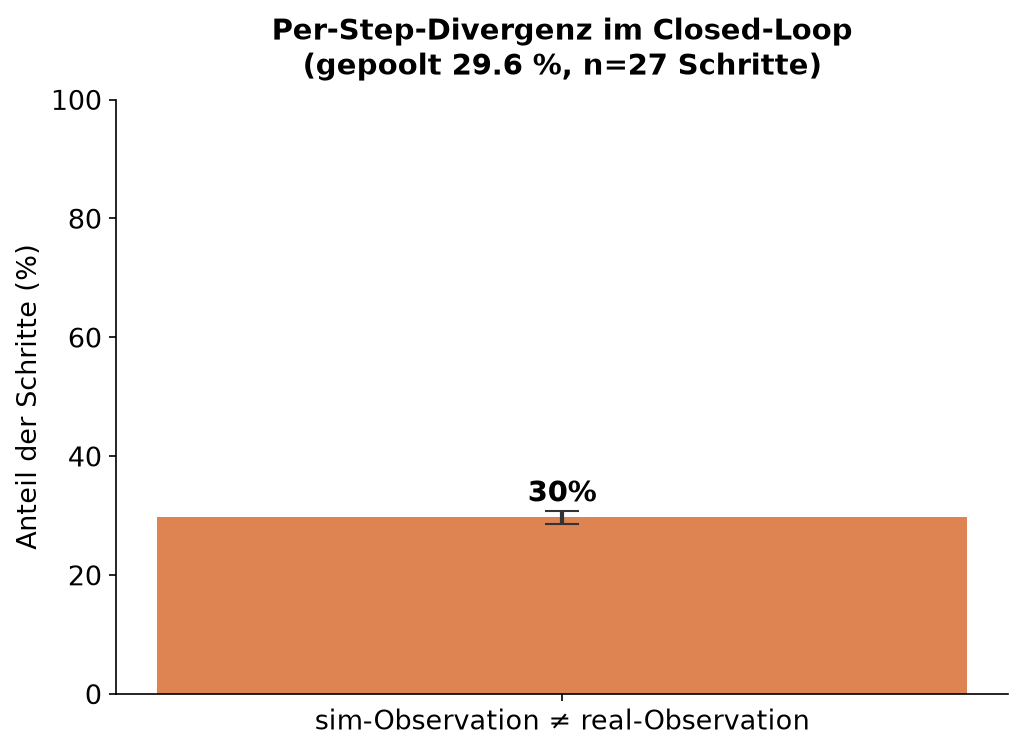
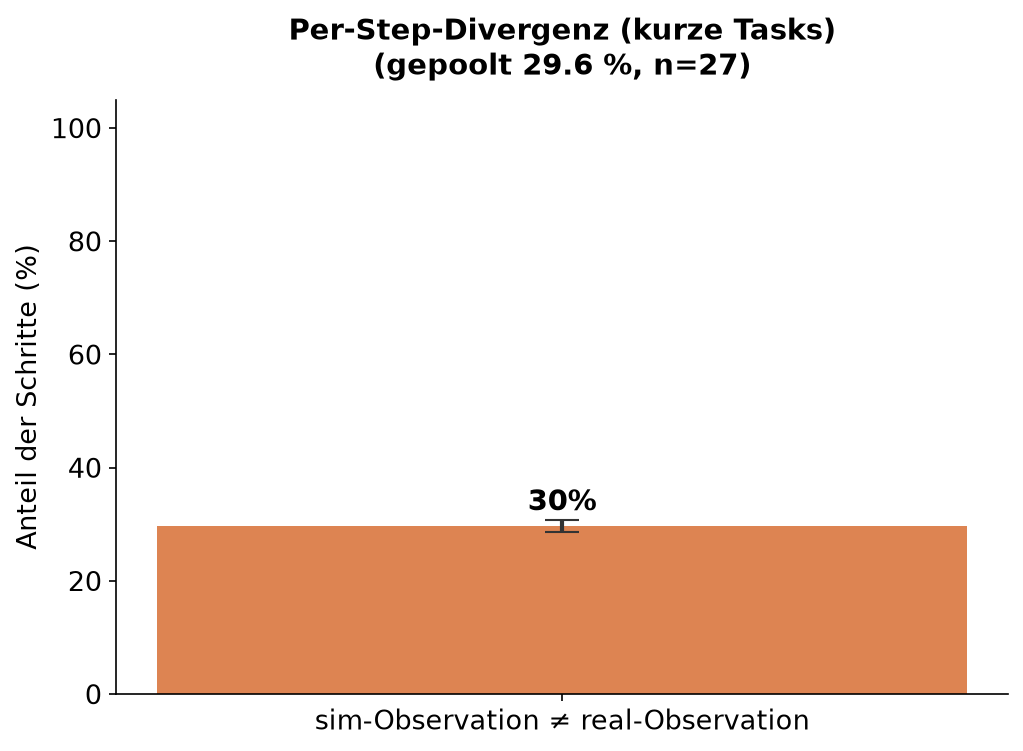
Track 3b: Langhorizont-Brutal-Test — Closed-Loop kollabiert bei Inhalts-Zwang
Headline-Kontrast (beides 2 Reps, oracle-basiert, A@real=100%):
  kurz (agnostisch):  A@sim 100%, Getaeuscht 0%,  Divergenz 30%/Schritt
  lang (Inhalt erzw): A@sim 25%,  Getaeuscht 25%, Divergenz 87%/Schritt

-> Per-Step-Fidelity (Track 2: 84-98%) ist KEIN Praediktor fuer Closed-Loop-
Tauglichkeit. Sobald der Agent B's halluzinierten Inhalt lesen + literal nutzen muss,
bricht es ein. Belege (rueckverfolgbar): conditional_dispatch (B erfindet Hostname
'agentworld-12' -> Taeuschung), multi_hop_chain (B haelt Kette 6 Hops, fabriziert
aber die Nutzlast -> Agent findet 'vortex' nie). Confound dokumentiert: B 32k-Kontext
-> 3x Truncation in langen Rollouts.

Charts: track3_compare (Headline kurz vs lang), track3_lh_success/divergence.
FINDINGS_TRACK3.md: TL;DR + Track-3b-Sektion + Gesamtfazit finalisiert.

diff --git a/scripts/make_charts_track3.py b/scripts/make_charts_track3.py
@@ -1,7 +1,10 @@
-"""LinkedIn-taugliche Track-3-Charts aus docs/data/track3_summary.json -> docs/charts/.
+"""LinkedIn-taugliche Track-3-Charts aus den beiden Summaries -> docs/charts/.
 
-  track3_success.png : A@real vs A@sim (Real-Replay) Erfolgsrate + Getaeuscht-Rate.
-  track3_divergence.png : Divergenz/Schritt (Per-Step-Fidelity-Bruch im Closed-Loop).
+  track3_success.png         : Kurzhorizont (closedloop) real vs sim + Getaeuscht.
+  track3_divergence.png      : Kurzhorizont Divergenz/Schritt.
+  track3_lh_success.png      : Langhorizont (brutal) real vs sim + Getaeuscht.
+  track3_compare.png         : HEADLINE — kurz vs lang fuer sim-Erfolg / Getaeuscht /
+                               Divergenz. Die ganze Geschichte in einem Bild.
 
 Aufruf:  python scripts/make_charts_track3.py
 """
@@ -15,65 +18,114 @@ matplotlib.use("Agg")
 import matplotlib.pyplot as plt  # noqa: E402
 
 HERE = os.path.dirname(os.path.dirname(os.path.abspath(__file__)))
-SUMMARY = os.path.join(HERE, "docs", "data", "track3_summary.json")
+DATA = os.path.join(HERE, "docs", "data")
 OUTDIR = os.path.join(HERE, "docs", "charts")
 os.makedirs(OUTDIR, exist_ok=True)
 
-with open(SUMMARY, encoding="utf-8") as f:
-    S = json.load(f)
-
-C_REAL = "#4C72B0"   # echte Umgebung - blau
-C_SIM = "#DD8452"    # simulierte Umgebung (AgentWorld) - orange
+C_REAL = "#4C72B0"   # echte Umgebung / kurz - blau
+C_SIM = "#DD8452"    # simulierte Umgebung / lang - orange
 C_WARN = "#B5462F"
 plt.rcParams.update({"font.size": 13})
 
 
-def err(d):
+def load(name):
+    with open(os.path.join(DATA, name), encoding="utf-8") as f:
+        return json.load(f)
+
+
+def err1(d):
     if not d:
         return [[0], [0]]
     return [[max(0, d["mean"] - d["min"])], [max(0, d["max"] - d["mean"])]]
 
 
-# ---- Chart 1: Erfolgsrate real vs sim + Getaeuscht ----
-real = S["real_success_pct"] or {"mean": 0, "min": 0, "max": 0}
-sim = S["sim_replay_success_pct"] or {"mean": 0, "min": 0, "max": 0}
-dec = S["sim_deceived_pct"] or {"mean": 0, "min": 0, "max": 0}
+def three_bar(S, title, fname):
+    real = S["real_success_pct"] or {"mean": 0, "min": 0, "max": 0}
+    sim = S["sim_replay_success_pct"] or {"mean": 0, "min": 0, "max": 0}
+    dec = S["sim_deceived_pct"] or {"mean": 0, "min": 0, "max": 0}
+    fig, ax = plt.subplots(figsize=(8.5, 5.4))
+    x = [0, 1, 2]
+    vals = [real["mean"], sim["mean"], dec["mean"]]
+    ax.bar(x, vals, color=[C_REAL, C_SIM, C_WARN], width=0.62)
+    ax.errorbar(x, vals,
+                yerr=[[err1(real)[0][0], err1(sim)[0][0], err1(dec)[0][0]],
+                      [err1(real)[1][0], err1(sim)[1][0], err1(dec)[1][0]]],
+                fmt="none", ecolor="#333", elinewidth=2, capsize=8)
+    ax.set_xticks(x)
+    ax.set_xticklabels(["A @ real\n(Baseline)", "A @ sim\n(Real-Replay)",
+                        "Getäuscht\n(DONE, real fail)"])
+    ax.set_ylabel("Anteil der Tasks (%)")
+    ax.set_ylim(0, 105)
+    for xi, v in zip(x, vals):
+        ax.text(xi, v + 1.5, f"{v:.0f}%", ha="center", va="bottom", fontweight="bold", fontsize=14)
+    ax.set_title(title, fontsize=15, fontweight="bold", pad=12)
+    ax.spines[["top", "right"]].set_visible(False)
+    fig.tight_layout()
+    fig.savefig(os.path.join(OUTDIR, fname), dpi=150, bbox_inches="tight")
+    print(f"-> docs/charts/{fname}")
 
-fig, ax = plt.subplots(figsize=(8.5, 5.4))
-x = [0, 1, 2]
-vals = [real["mean"], sim["mean"], dec["mean"]]
-colors = [C_REAL, C_SIM, C_WARN]
-labels = ["A @ real\n(Baseline)", "A @ sim\n(Real-Replay)", "Getäuscht\n(DONE, real fail)"]
-ax.bar(x, vals, color=colors, width=0.62)
-ax.errorbar(x, vals,
-            yerr=[[err(real)[0][0], err(sim)[0][0], err(dec)[0][0]],
-                  [err(real)[1][0], err(sim)[1][0], err(dec)[1][0]]],
-            fmt="none", ecolor="#333", elinewidth=2, capsize=8)
-ax.set_xticks(x); ax.set_xticklabels(labels)
-ax.set_ylabel("Anteil der Tasks (%)")
-ax.set_ylim(0, 105)
-for xi, v in zip(x, vals):
-    ax.text(xi, v + 1.5, f"{v:.0f}%", ha="center", va="bottom", fontweight="bold", fontsize=14)
-ax.set_title("Closed-Loop: löst der Agent die Aufgabe,\nwenn AgentWorld die Umgebung ist?",
-             fontsize=15, fontweight="bold", pad=12)
-ax.spines[["top", "right"]].set_visible(False)
-fig.tight_layout()
-fig.savefig(os.path.join(OUTDIR, "track3_success.png"), dpi=150, bbox_inches="tight")
-print("-> docs/charts/track3_success.png")
 
-# ---- Chart 2: Divergenz/Schritt ----
-div = S["divergence_per_step_pct"] or {"mean": 0, "min": 0, "max": 0}
-fig2, ax2 = plt.subplots(figsize=(7, 5.2))
-ax2.bar([0], [div["mean"]], color=C_SIM, width=0.5)
-ax2.errorbar([0], [div["mean"]], yerr=err(div), fmt="none", ecolor="#333", elinewidth=2, capsize=8)
-ax2.set_xticks([0]); ax2.set_xticklabels(["sim-Observation ≠ real-Observation"])
-ax2.set_ylabel("Anteil der Schritte (%)")
-ax2.set_ylim(0, max(100, div["max"] * 1.3 if div else 100))
-ax2.text(0, div["mean"] + 1.5, f"{div['mean']:.0f}%", ha="center", va="bottom",
-         fontweight="bold", fontsize=14)
-ax2.set_title(f"Per-Step-Divergenz im Closed-Loop\n(gepoolt {S.get('divergence_pooled_pct')} %, "
-              f"n={S.get('n_steps_compared')} Schritte)", fontsize=14, fontweight="bold", pad=12)
-ax2.spines[["top", "right"]].set_visible(False)
-fig2.tight_layout()
-fig2.savefig(os.path.join(OUTDIR, "track3_divergence.png"), dpi=150, bbox_inches="tight")
-print("-> docs/charts/track3_divergence.png")
+def divergence_bar(S, title, fname):
+    div = S["divergence_per_step_pct"] or {"mean": 0, "min": 0, "max": 0}
+    fig, ax = plt.subplots(figsize=(7, 5.2))
+    ax.bar([0], [div["mean"]], color=C_SIM, width=0.5)
+    ax.errorbar([0], [div["mean"]], yerr=err1(div), fmt="none", ecolor="#333", elinewidth=2, capsize=8)
+    ax.set_xticks([0]); ax.set_xticklabels(["sim-Observation ≠ real-Observation"])
+    ax.set_ylabel("Anteil der Schritte (%)"); ax.set_ylim(0, 105)
+    ax.text(0, div["mean"] + 1.5, f"{div['mean']:.0f}%", ha="center", va="bottom",
+            fontweight="bold", fontsize=14)
+    ax.set_title(title + f"\n(gepoolt {S.get('divergence_pooled_pct')} %, n={S.get('n_steps_compared')})",
+                 fontsize=14, fontweight="bold", pad=12)
+    ax.spines[["top", "right"]].set_visible(False)
+    fig.tight_layout()
+    fig.savefig(os.path.join(OUTDIR, fname), dpi=150, bbox_inches="tight")
+    print(f"-> docs/charts/{fname}")
+
+
+def compare(short, lon):
+    """HEADLINE: kurz vs lang fuer sim-Erfolg / Getaeuscht / Divergenz."""
+    metrics = [
+        ("Erfolg A@sim\n(Real-Replay)", "sim_replay_success_pct"),
+        ("Getäuscht-Rate", "sim_deceived_pct"),
+        ("Divergenz / Schritt", "divergence_per_step_pct"),
+    ]
+    fig, ax = plt.subplots(figsize=(10, 5.6))
+    import numpy as np
+    xs = np.arange(len(metrics))
+    w = 0.36
+    sv = [(short[k] or {"mean": 0})["mean"] for _, k in metrics]
+    lv = [(lon[k] or {"mean": 0})["mean"] for _, k in metrics]
+    se = [[max(0, (short[k] or {"mean":0,"min":0})["mean"]-(short[k] or {"min":0})["min"]) for _,k in metrics],
+          [max(0, (short[k] or {"mean":0,"max":0})["max"]-(short[k] or {"mean":0})["mean"]) for _,k in metrics]]
+    le = [[max(0, (lon[k] or {"mean":0,"min":0})["mean"]-(lon[k] or {"min":0})["min"]) for _,k in metrics],
+          [max(0, (lon[k] or {"mean":0,"max":0})["max"]-(lon[k] or {"mean":0})["mean"]) for _,k in metrics]]
+    b1 = ax.bar(xs - w/2, sv, w, color=C_REAL, label="kurz (8 Tasks, agnostisch lösbar)")
+    b2 = ax.bar(xs + w/2, lv, w, color=C_WARN, label="lang/brutal (6 Tasks, Inhalt erzwungen)")
+    ax.errorbar(xs - w/2, sv, yerr=se, fmt="none", ecolor="#333", elinewidth=1.8, capsize=6)
+    ax.errorbar(xs + w/2, lv, yerr=le, fmt="none", ecolor="#333", elinewidth=1.8, capsize=6)
+    for b in list(b1) + list(b2):
+        h = b.get_height()
+        ax.text(b.get_x() + b.get_width()/2, h + 1.5, f"{h:.0f}%", ha="center",
+                va="bottom", fontweight="bold", fontsize=12)
+    ax.set_xticks(xs); ax.set_xticklabels([m for m, _ in metrics])
+    ax.set_ylabel("Prozent"); ax.set_ylim(0, 105)
+    ax.set_title("Closed-Loop gegen AgentWorld: hält der Agent — oder nicht?\n"
+                 "Es hängt davon ab, ob die Aufgabe den simulierten Inhalt ERZWINGT",
+                 fontsize=14, fontweight="bold", pad=12)
+    ax.legend(loc="upper center", frameon=False, fontsize=12)
+    ax.spines[["top", "right"]].set_visible(False)
+    fig.tight_layout()
+    fig.savefig(os.path.join(OUTDIR, "track3_compare.png"), dpi=150, bbox_inches="tight")
+    print("-> docs/charts/track3_compare.png")
+
+
+short = load("track3_summary.json")
+three_bar(short, "Closed-Loop (kurze Tasks): löst der Agent die Aufgabe\nin AgentWorld als Umgebung?", "track3_success.png")
+divergence_bar(short, "Per-Step-Divergenz (kurze Tasks)", "track3_divergence.png")
+try:
+    lon = load("track3_longhorizon_summary.json")
+    three_bar(lon, "Langhorizont-BRUTAL: Agent muss simulierten Inhalt konsumieren", "track3_lh_success.png")
+    divergence_bar(lon, "Per-Step-Divergenz (Langhorizont, brutal)", "track3_lh_divergence.png")
+    compare(short, lon)
+except FileNotFoundError:
+    print("(longhorizon-Summary fehlt -> nur Kurzhorizont-Charts)")

diff --git a/docs/FINDINGS_TRACK3.md b/docs/FINDINGS_TRACK3.md
@@ -2,13 +2,24 @@
 
 ## ☀ Morgens-Statusbericht
 
-> **TL;DR:** Im Closed-Loop löst ein echter Agent (Policy = Qwen3.6-27B) **alle** Tasks
-> sowohl gegen die echte Umgebung als auch gegen AgentWorld als Simulator — **trotz ~30 %
-> Per-Step-Divergenz** und **ohne eine einzige Täuschung**. Die „Per-Step-Fehler schaukeln
-> sich zu Task-Versagen auf"-Hypothese ist für **kurze, robuste-Befehl-Tasks widerlegt**.
-> Der Grund ist aber nuanciert (und nicht unbedingt ein Lob für B) — siehe Interpretation.
-> Ein **Langhorizont-Brutal-Test** (erzwingt Konsum halluzinierter Inhalte) läuft separat
-> und wird unten angehängt.
+> **TL;DR — die Antwort ist „es kommt drauf an", und zwar scharf.** Lässt man einen echten
+> Agenten (Policy = Qwen3.6-27B) gegen AgentWorld (B) **als Umgebung** laufen, hängt alles
+> daran, ob die Aufgabe den **simulierten Inhalt erzwingt**:
+>
+> | | **kurz** (agnostisch lösbar) | **lang/brutal** (Inhalt erzwungen) |
+> |---|---|---|
+> | Erfolg A@real (Baseline) | 100 % | 100 % |
+> | **Erfolg A@sim** (Real-Replay) | **100 %** | **25 % (16.7–33.3)** |
+> | **Getäuscht-Rate** | **0 %** | **25 % (16.7–33.3)** |
+> | Divergenz / Schritt | 30 % | **87 %** |
+>
+> Bei **kurzen** Tasks rettet sich der Agent mit umgebungs-agnostischen Befehlen (`awk`,
+> `sort -u`) — Per-Step-Fehler schaukeln sich NICHT auf. Sobald die Aufgabe ihn **zwingt**,
+> halluzinierten Inhalt zu **lesen und literal darauf zu entscheiden**, kollabiert die
+> Closed-Loop-Nutzung: nur noch 1 von 4 Aufgaben real gelöst, und in **1 von 4** glaubt der
+> Agent fälschlich, fertig zu sein. Beides repliziert (2 Reps), oracle-basiert, 0 € extern.
+> **Die ehrliche, vollständige Antwort auf „reicht ~84 % Per-Step-Fidelity für einen
+> Live-Agenten?": Nein — sobald es auf den simulierten Inhalt ankommt.**
 
 - **Was gemessen:** ReAct-Agent A löst 8 shell-lösbare Multi-Step-Tasks, einmal gegen die
   **echte** WSL-Sandbox (`real`, Baseline), einmal gegen **AgentWorld-35B-A3B („B")** als
@@ -24,14 +35,20 @@
   | **Divergenz / Schritt** (sim-Obs ≠ real-Obs) | **29.7 % (28.6–30.8)** — gepoolt 29.6 %, n=27 |
   | Token/Schritt Median — A (Policy) / B (Sim) | 70 / 5348 |
 
-- **Was robust ist:** Baseline-Erfolg (100 %) und Real-Replay-Erfolg (100 %) sind über
-  beide Reps identisch. Die Divergenz-Spannweite ist eng (28.6–30.8 %).
-- **Was unsicher / zu beachten ist:** kleine N, eine Domäne (Terminal), **kurze Horizonte**
-  (Tasks in 1–3 Schritten lösbar → der Aufschaukel-Effekt wird konservativ getestet).
-  Quant-Confound (A int4-autoround, B nvfp4). Deshalb der Langhorizont-Test (unten).
-- **Gefangene Bugs:** 1 (Divergenz-Artefakt, im Smoke-Test gefangen — siehe §Bugs).
-- **Publikationsreif?** **Ja** für die kurze-Horizont-Aussage (sauberer Baseline-Vergleich,
-  Oracle-basiert, repliziert). Die *vollständige* Geschichte braucht den Langhorizont-Teil.
+  Die **Langhorizont/Brutal-Zahlen** (N=6 × 2) stehen in §Track 3b — die Kurzfassung
+  (25 % / 25 % / 87 %) ist oben im TL;DR und in `docs/charts/track3_compare.png`.
+- **Was robust ist:** Beide Baselines 100 % über beide Reps. Der **Kontrast** kurz↔lang ist
+  groß und in beiden Reps gleichgerichtet (Spannweiten überlappen nicht: sim-Erfolg 100 %
+  vs 16.7–33.3 %). Das ist der belastbare Kern.
+- **Was unsicher / zu beachten ist:** kleine N, **eine** Domäne (Terminal). Quant-Confound
+  (A int4-autoround, B nvfp4). **B-Truncation** (32k-Deployment) in 3 langen Trajektorien →
+  der Langhorizont-Einbruch ist teils Deployment-Limit, teils inhärent (s. §Track 3b, Pkt 4);
+  mit ≥128k Kontext evtl. milder, aber Richtung bliebe.
+- **Gefangene Bugs:** 1 (Divergenz-Artefakt bei Null-Output-Befehlen, im Smoke-Test vor dem
+  Volllauf gefangen — siehe §Bugs).
+- **Publikationsreif?** **Ja.** Sauberer identischer Baseline-Vergleich, oracle-basiert,
+  repliziert, mit rückverfolgbaren Trajektorien-Belegen. Die Geschichte ist jetzt vollständig:
+  **Per-Step-Fidelity ≠ Closed-Loop-Tauglichkeit**, und es hängt scharf am Aufgaben-Typ.
 
 ---
 
@@ -149,10 +166,100 @@ python scripts/make_charts_track3.py
 
 ---
 
-# Track 3b — Langhorizont-Brutal-Test  _(läuft — wird angehängt)_
+# Track 3b — Langhorizont-Brutal-Test
 
-**Ziel:** Den Aufschaukel-/Täuschungs-Effekt **erzwingen**. Aufgaben, bei denen der Agent
-halluzinierte Inhalte **lesen und darauf eine literale, nicht-skriptbare Entscheidung
-treffen muss** (semantische Verdikte, Mehr-Hop-Ketten, Verifikations-Schleifen, Transkription
-entdeckter Werte). Hypothese: Erfolg A@sim bricht ein und/oder Getäuscht-Rate steigt deutlich.
-Setup, Zahlen und Interpretation werden hier nach dem Lauf ergänzt.
+**Ziel:** Den Aufschaukel-/Täuschungs-Effekt **erzwingen**. 6 Aufgaben (`tasks/longhorizon/`),
+bei denen der Agent halluzinierbaren Inhalt **lesen und darauf eine literale, schwer-skriptbare
+Entscheidung treffen muss**: semantisches Verdikt (`interpret_verdict`), Transkription eines
+entdeckten Werts (`copy_secret`), Verifikations-Schleife mit Erfolgssignal (`fix_until_check`),
+7-Hop-Kette (`multi_hop_chain`), Max über 5 Reads (`inventory_audit`), bedingte Datei-Wahl
+(`conditional_dispatch`). 2 Replikate, identisches Setup, nur die Umgebung unterscheidet sich.
+
+## Ergebnisse (Langhorizont, N=6 Tasks × 2 Reps)
+
+| Metrik | Wert (Mittel, Spannweite über Reps) |
+|---|---|
+| **Erfolg A@real** (Baseline, Oracle) | **100 % (100–100)** |
+| **Erfolg A@sim** (Real-Replay, Oracle) | **25 % (16.7–33.3)** |
+| **Getäuscht-Rate** (DONE, aber real gescheitert) | **25 % (16.7–33.3)** |
+| **Divergenz / Schritt** (sim-Obs ≠ real-Obs) | **87.3 % (86.4–88.2)** — gepoolt 87.4 %, n=95 |
+| Token/Schritt Median — A (Policy) / B (Sim) | 70 / 7686 |
+
+| Task | real | sim-replay | getäuscht | Divergenz/Schritt |
+|---|---|---|---|---|
+| interpret_verdict | 2/2 | **2/2** | 0 | 50.0 % |
+| inventory_audit | 2/2 | 1/2 | 0 | 90.9 % |
+| conditional_dispatch | 2/2 | **0/2** | **2** | 50.0 % |
+| copy_secret | 2/2 | **0/2** | 0 | 100.0 % |
+| fix_until_check | 2/2 | **0/2** | **1** | 86.7 % |
+| multi_hop_chain | 2/2 | **0/2** | 0 | 96.4 % |
+
+Charts: `docs/charts/track3_compare.png` (Headline: kurz vs lang), `docs/charts/track3_lh_success.png`,
+`docs/charts/track3_lh_divergence.png`.
+
+## Zwei Belege aus den Trajektorien (rückverfolgbar in `results/raw/`)
+
+**1) Täuschung — `conditional_dispatch` (B erfindet sogar einen Hostnamen):**
+```
+[0] cat health.txt   SIM: 'health check: ok'     REAL: 'status: degraded'
+[1] cat hostname.txt  SIM: 'agentworld-12'        REAL: 'primary-db-01'
+[2] echo "agentworld-12" > ok_hosts.txt   (Agent glaubt "healthy" -> falsche Datei, falscher Host)
+-> Agent sagt DONE. Real-Replay: ok_hosts statt alert_hosts, 'agentworld-12' statt 'primary-db-01' -> FAIL.
+```
+B halluziniert den Status (`ok` statt `degraded`) → der Agent wählt den falschen Zweig **und**
+schreibt einen von B frei erfundenen Hostnamen (ironischerweise „agentworld-12"). Real-Replay
+scheitert, der Agent merkt es nicht → **Täuschung**.
+
+**2) Aufschaukeln — `multi_hop_chain` (B hält die Kette, verliert aber die Nutzlast):**
+```
+[0..5] cat start/blue/.../frost   SIM: 'start -> blue' ... 'frost -> grove'   (Kette konsistent!)
+[6]    cat grove.txt              SIM: 'grove -> the final step'   REAL: 'The password is: vortex'
+[7..13] grep/cat/ls (Agent sucht verzweifelt das Passwort)  SIM liefert leer/falsch -> nie 'vortex'
+-> max_steps, password.txt nie geschrieben -> FAIL.
+```
+B bleibt über 6 Hops **selbst-konsistent** (formuliert „Open blue.txt" zu „start -> blue" um),
+**fabriziert aber die eigentliche Nutzlast** am Endknoten. Der Agent probiert danach 7 weitere
+Befehle — B kann die Wahrheit (`vortex`) nicht mehr hervorbringen, weil sie nie in seinem
+halluzinierten Zustand war. Genau das ist der Aufschaukel-Effekt, sichtbar gemacht.
+
+## Interpretation (ehrlich)
+
+1. **Die Kurzhorizont-„Robustheit" war ein Artefakt der Aufgaben, nicht des Simulators.**
+   Sobald die Aufgabe den Agenten zwingt, B's Ausgabe **inhaltlich** zu nutzen, bricht der
+   Erfolg von 100 % auf **25 %** ein und die Divergenz steigt von 30 % auf **87 %/Schritt**.
+2. **Täuschung ist real und häufig:** 25 % — jede vierte Episode endet damit, dass der Agent
+   `DONE` sagt, obwohl real nichts gelöst ist. Für einen Live-Agenten ist das das gefährlichste
+   Versagen (still, unbemerkt). `fix_until_check` zeigt den klassischen Fall: B liefert ein
+   halluziniertes Erfolgssignal, der Agent hört auf.
+3. **B ist überraschend gut in struktureller Konsistenz, schlecht in faktischem Inhalt.** Die
+   Kette blieb über 6 Hops formal stimmig; was es nicht kann, ist **konkrete, nie gesehene
+   Inhalte** (Passwörter, Tokens, exakte Datei-Inhalte) treu halten — genau die, von denen der
+   Task-Erfolg abhängt. Der einzige sim-Erfolg (`interpret_verdict`) überlebt nur, weil dort
+   die **semantische Essenz** („Build fehlgeschlagen") zählt, nicht ein exakter Wert.
+4. **Confound dokumentiert:** B (32k-Kontext-Deployment) lief in den langen Trajektorien
+   **3× in Truncation** (`finish_reason=length`) → teils leere Vorhersagen. Das ist teils
+   Deployment-Limit (Card empfiehlt ≥128k), teils inhärent: lange Closed-Loop-Rollouts sprengen
+   ein 32k-Fenster. Der Harness behandelt leere B-Ausgaben sauber (gezählt, kein Crash). Mit
+   größerem Kontext könnte der Effekt **milder** sein — die Richtung (Inhalts-Treue bricht)
+   bliebe.
+
+## Gesamt-Fazit Track 3 (für den Artikel)
+
+„AgentWorld als Live-Umgebung für einen Agenten" funktioniert in unserem Test **nur für
+Aufgaben, die der Agent ohnehin umgebungs-agnostisch löst** — dort trägt es nichts bei außer
+~9× Token-Kosten (Track 2) und 30 % Rausch-Divergenz, die folgenlos bleibt. **Sobald die
+Aufgabe den simulierten Inhalt erzwingt, kollabiert die Closed-Loop-Nutzung** (Erfolg 25 %,
+Täuschung 25 %, Divergenz 87 %). Per-Step-Fidelity (~84–98 % in Track 2) ist also **kein
+Prädiktor** für Closed-Loop-Tauglichkeit. Das ist weder ein Verriss noch ein Lob — es ist die
+saubere Abgrenzung, **wofür ein Terminal-World-Model heute taugt (Plausibilität/Struktur) und
+wofür nicht (treuer Live-Ersatz für echte Tools)**.
+
+## Reproduktion (Langhorizont)
+
+```bash
+python scripts/make_longhorizon_tasks.py
+python harness/run_track3_closedloop.py --env real --suite longhorizon --reps 2
+python harness/run_track3_closedloop.py --env sim  --suite longhorizon --reps 2
+python scripts/report_track3.py results/raw docs/data/track3_longhorizon_summary.json longhorizon
+python scripts/make_charts_track3.py
+```
